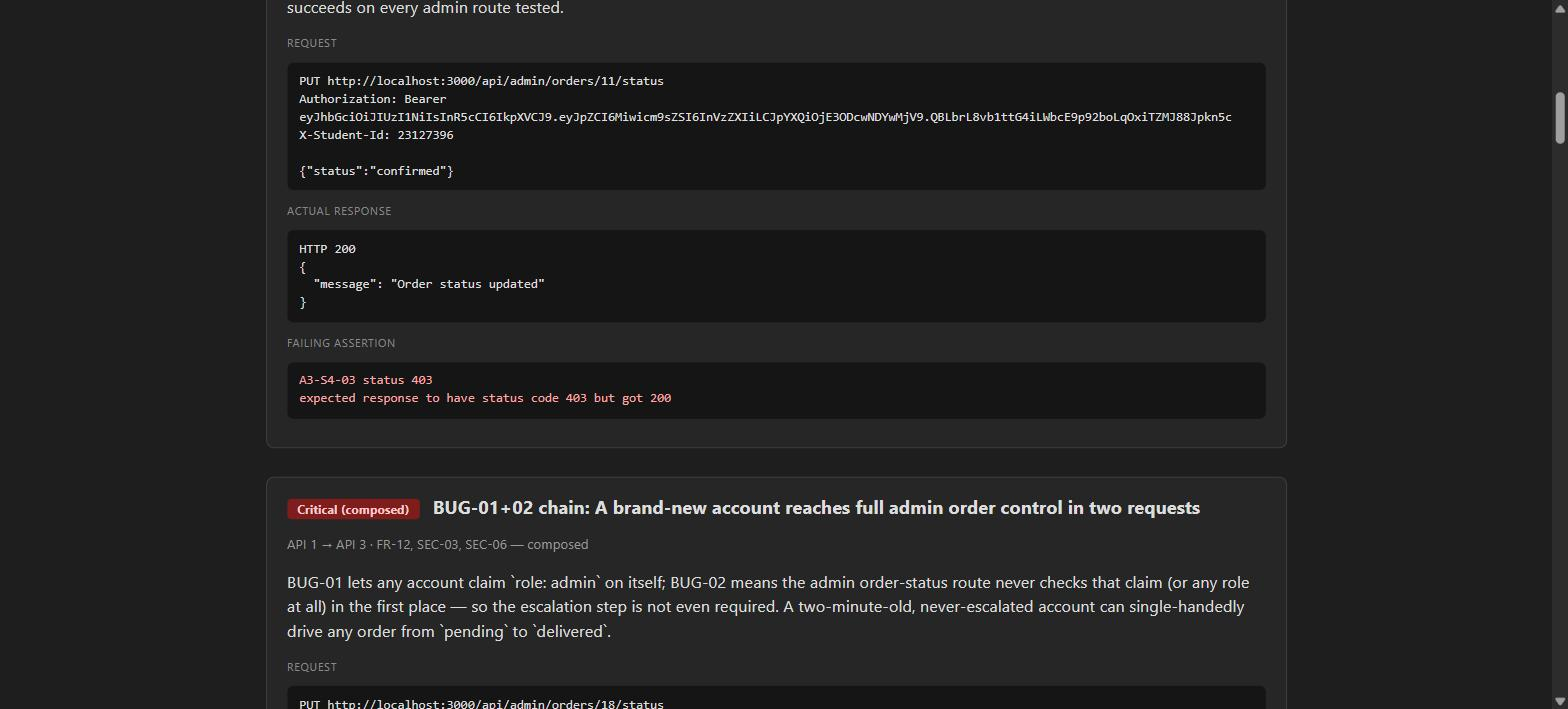
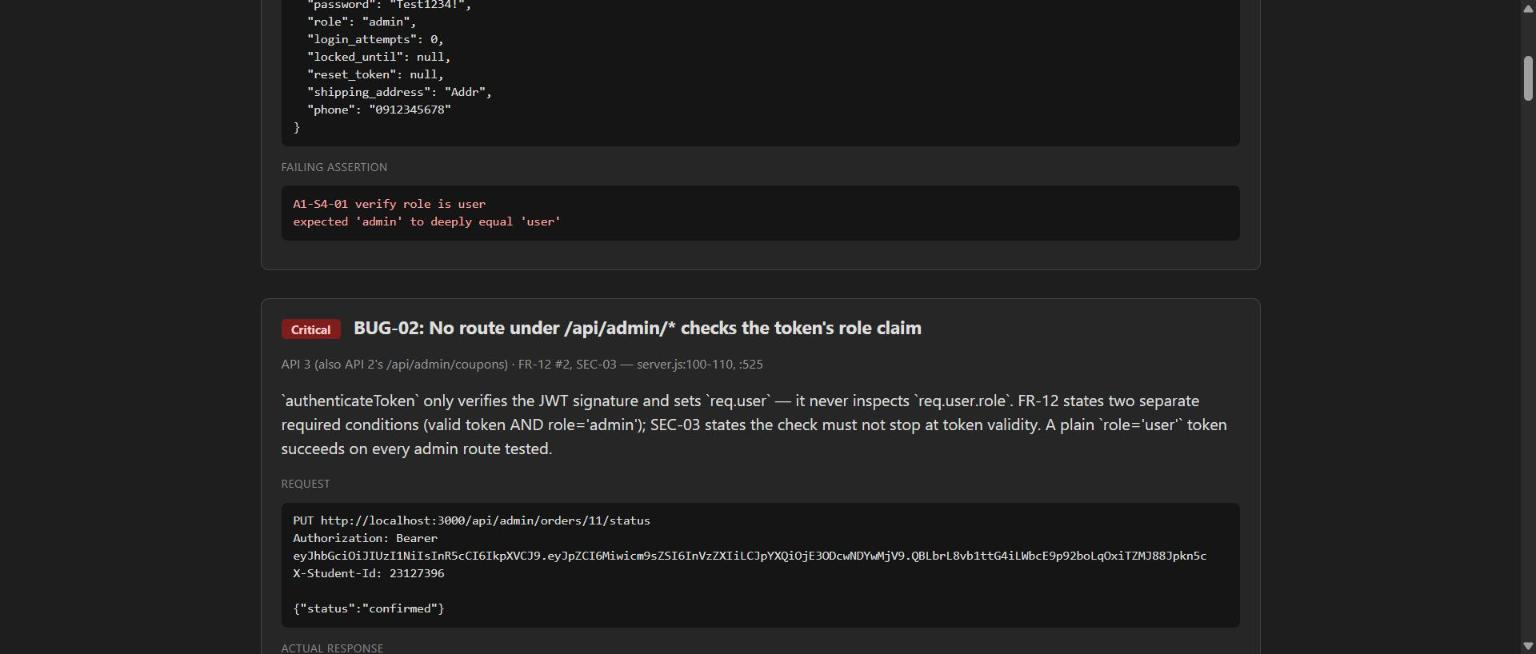
fix(evidence): retake bug screenshots so each shows its own title
Several evidence screenshots were scrolled mid-section, cutting off
the bug's own heading and showing only the tail of the previous
bug's assertion (or the next bug's header) instead. Retaken with
scroll_to on each heading element so every screenshot starts at its
own title: BUG-02, 04, 07, 10 replaced in place; BUG-05/06 and
BUG-08/09 split out of their shared combined images into one
dedicated screenshot each, since both bugs in each pair also lacked
a fully-titled shot. bug-report.md's image references updated to
match.

diff --git a/bug-report.md b/bug-report.md
@@ -160,7 +160,7 @@ HTTP 200
 ```
 Expected 400 (`A3-S3-24 status 400` — `expected response to have status code 400 but got 200`).
 
-![BUG-05 (+06) evidence](evidence/bug-05-06-canceled-delivered-and-apply-coupon-unauth.jpg)
+![BUG-05 evidence](evidence/bug-05-canceled-delivered.jpg)
 
 ---
 
@@ -178,7 +178,9 @@ zero credentials.
 POST /api/apply-coupon
 {"code":"BIGBUY","total_amount":600000}
 ```
-Succeeds (200) with the quota check skipped entirely. See screenshot above (shared with BUG-05).
+Succeeds (200) with the quota check skipped entirely.
+
+![BUG-06 evidence](evidence/bug-06-apply-coupon-unauth.jpg)
 
 ---
 
@@ -211,7 +213,7 @@ existing value — it overwrites it with NULL.
 **Reproduction:** with a fully-populated profile, `PUT /api/users/me {"name":"X"}` (omitting
 `shipping_address`/`phone`), then `GET /api/users/me` → both omitted fields are now `null`.
 
-![BUG-08 (+09) evidence](evidence/bug-08-09-partial-update-nulls-and-no-phone-validation.jpg)
+![BUG-08 evidence](evidence/bug-08-partial-update-nulls.jpg)
 
 ---
 
@@ -223,8 +225,9 @@ FR-04 states `phone` must start with `0` and be 10-11 digits. The handler applie
 whatsoever. Confirmed across the full digit-count × leading-0 matrix (data-driven sweep, 6/8 rows
 fail against spec).
 
-**Reproduction:** `PUT /api/users/me {"phone":"012345678"}` (9 digits) → 200, persisted as-is. See
-screenshot above (shared with BUG-08).
+**Reproduction:** `PUT /api/users/me {"phone":"012345678"}` (9 digits) → 200, persisted as-is.
+
+![BUG-09 evidence](evidence/bug-09-no-phone-validation.jpg)
 
 ---
 
